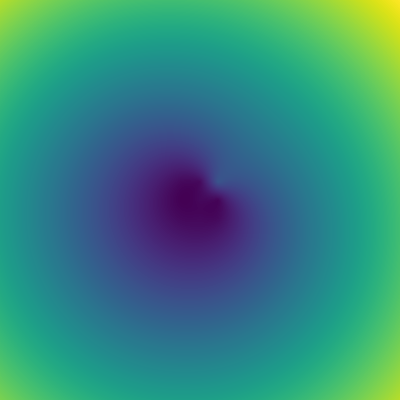
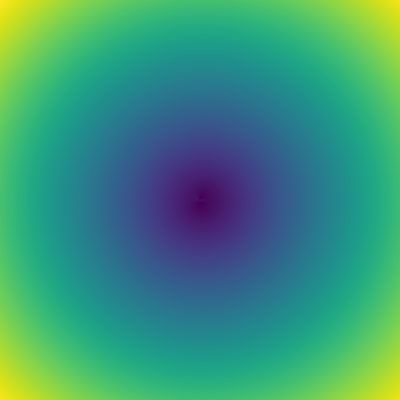
update code

diff --git a/Python/app.py b/Python/app.py
@@ -16,14 +16,14 @@ import geopandas as gpd
 app = dash.Dash(__name__)
 
 get_data = API()
-grilla = get_data.create_grilla(4.344199, -74.3747695, 0.01)
+grilla = get_data.create_grilla(4.335813, -74.371066, 0.001)
 
 get_img = interpolation()
 get_img.calculate_region(grilla, 0.1)
 
 
 image_url = ""
-image_bounds = [[4.329199, -74.3797695], [4.349199, -74.3597695]]
+image_bounds = [[4.334313, -74.371566], [4.336313, -74.369566]]
 
 
 initial_data = {row['sensor']: [row['valor']] for _, row in  grilla.iterrows()}
@@ -36,10 +36,10 @@ app.layout = html.Div([
             dl.TileLayer(),
             dl.ImageOverlay(id='image-overlay', url=image_url, opacity=0.7, bounds=image_bounds)
         ],
-        center=(4.344199, -74.3747695),
-        zoom=15,
+        center=(4.335813, -74.371066),
+        zoom=22,
         style={'width': '100%', 'height': '99vh'})
-    ], style={'width': '50%', 'display': 'inline-block', 'vertical-align': 'top'}),
+    ], style={'width': '40%', 'display': 'inline-block', 'vertical-align': 'top'}),
     
     html.Div([
         dcc.Graph(id='line-graph',
@@ -49,7 +49,7 @@ app.layout = html.Div([
             interval=1000,
             n_intervals=0
         )
-    ], style={'width': '50%', 'display': 'inline-block', 'vertical-align': 'top'})
+    ], style={'width': '59%', 'display': 'inline-block', 'vertical-align': 'top'})
 ])
 
 

diff --git a/Python/request.py b/Python/request.py
@@ -7,7 +7,7 @@ from shapely.geometry import Point
 class API:
     def __init__(self):
         self.endpoint = ['mq_01', 'mq_02', 'mq_03', 'mq_04', 'mq_05', 'mq_06', 'mq_07', 'mq_08', 'mq_09']
-        self.intialValues = [84.9, 84.23, 92.17, 10.65, 81.98, 43.54, 85.76, 91.45, 849.87]
+        self.intialValues = [100.9, 500.23, 12, 1000, 200, 1200, 800, 33, 0]
         self.url = 'http://192.168.101.162/'
         
     
